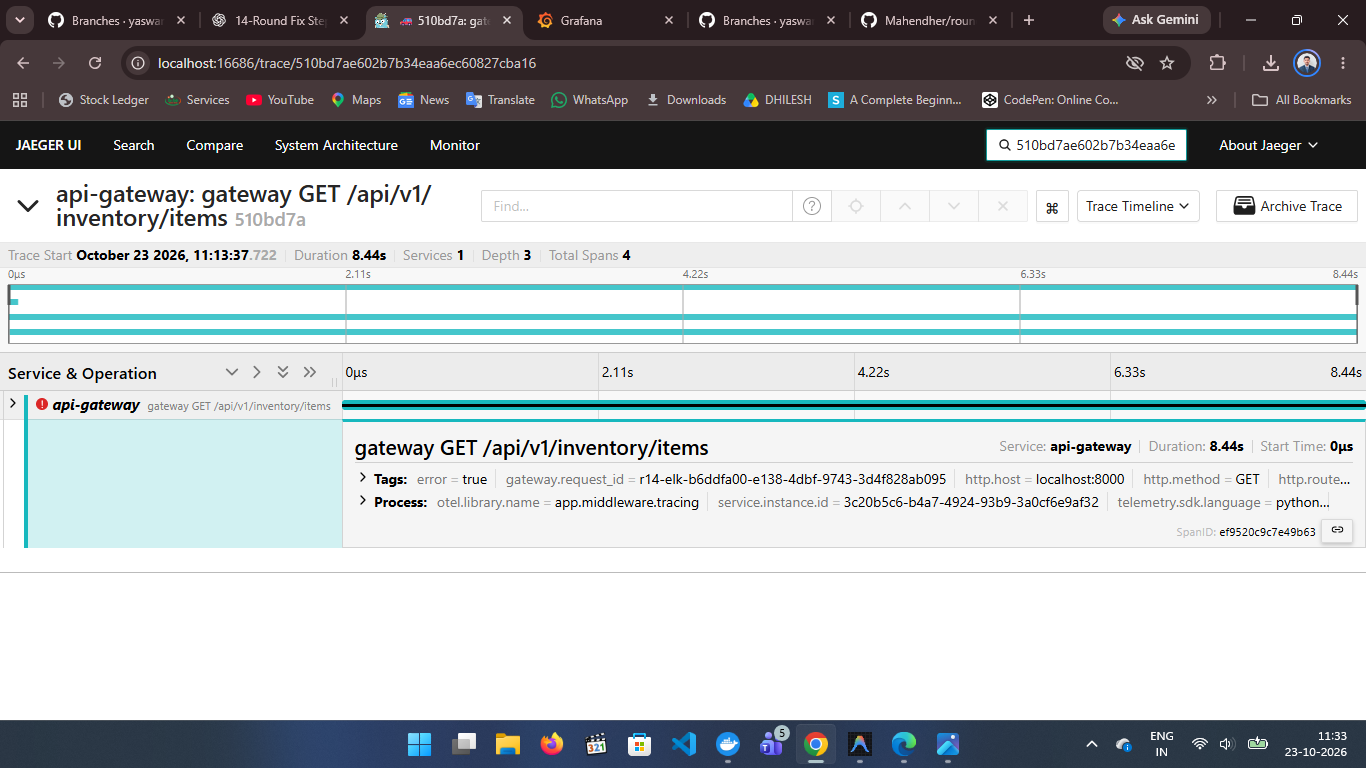
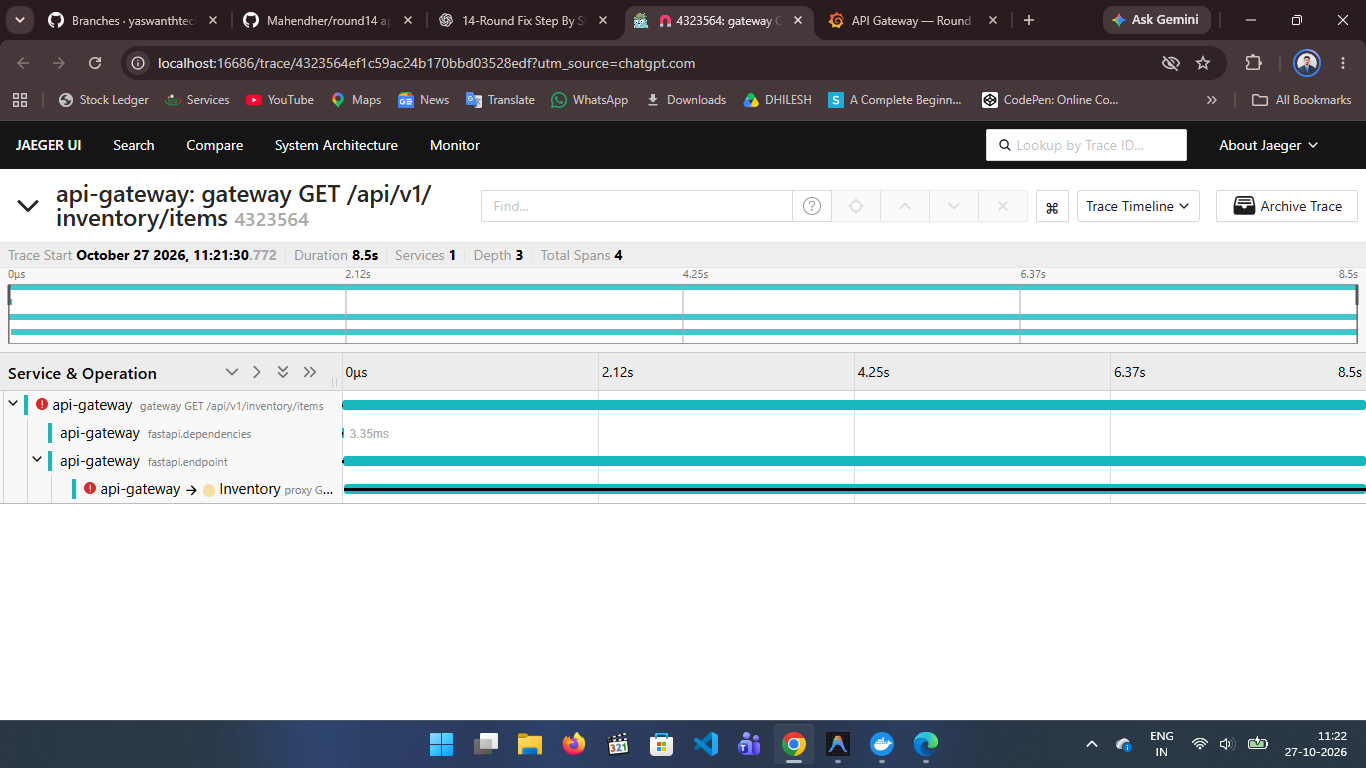
fix(api-gateway): align Round 14 ELK evidence

diff --git a/services/api-gateway/README.md b/services/api-gateway/README.md
@@ -850,7 +850,7 @@ curl -X POST "http://localhost:15601/api/saved_objects/_import?overwrite=true" `
 
 The exported objects include:
 1. **Data View (`gateway-logs-view`)**: Matches `gateway-logs-*` with `@timestamp` time filter.
-2. **Saved Search (`gateway-logs-by-request-id`)**: Pre-configured column view (`@timestamp`, `level`, `service.name`, `http.method`, `route`, `http.status_code`, `latency_ms`, `request_id`, `trace_id`) for single `request_id` investigation.
+2. **Saved Search ("Gateway Logs by Request ID", id `1e6adbaa-1f7b-426c-bad0-d483bfff6c5c`)**: Pre-configured column view (`@timestamp`, `level`, `service.name`, `http.method`, `route`, `http.status_code`, `latency_ms`, `request_id`, `trace_id`) for single `request_id` investigation.
 3. **Errors Over Time Visualization**: Error count and rate segmented by status code.
 4. **Slow Routes Visualization**: Table ranking routes by p95 and average latency.
 5. **Latency Percentiles**: Visual trends for p50, p95, and p99 response times.
